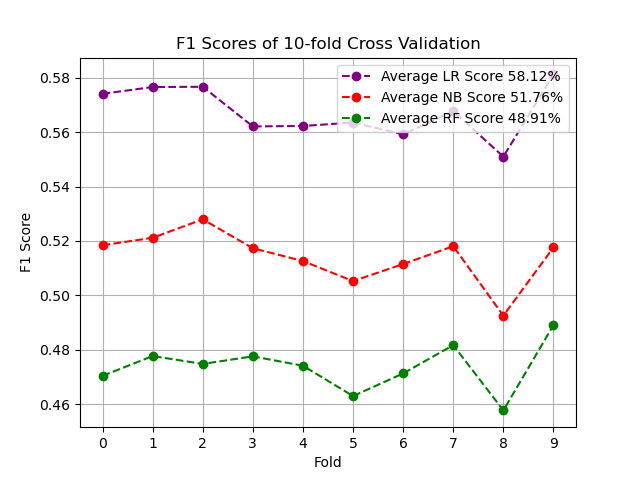
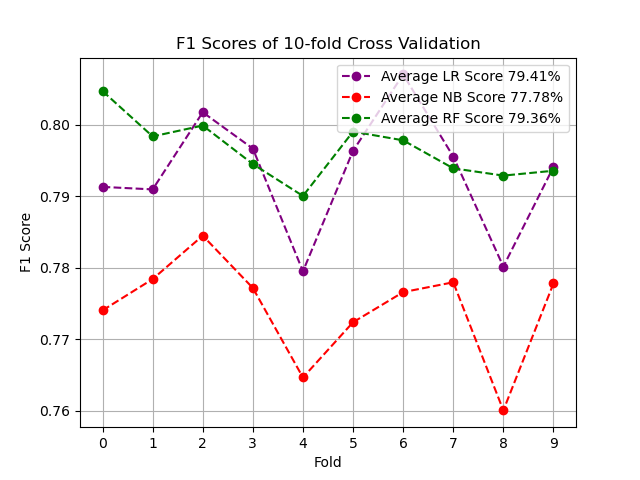
att

diff --git a/funcs.py b/funcs.py
@@ -10,6 +10,9 @@ from sklearn.feature_extraction.text import TfidfVectorizer
 from sklearn.linear_model import LogisticRegression
 from sklearn.naive_bayes import MultinomialNB
 from sklearn.ensemble import RandomForestClassifier
+from rake_nltk import Rake
+# import RAKE
+from sklearn.feature_extraction.text import CountVectorizer
 
 import matplotlib.pyplot as plt
 
@@ -17,7 +20,8 @@ import matplotlib.pyplot as plt
 
 def clean_text(text):
     # Remove pontuação
-    if isinstance(text, str) and not pd.isnull(text): # se o texto é número ou nulo, ignora
+    
+    if isinstance(text, str) and not pd.isnull(text) and not None: # se o texto é número ou nulo, ignora
 
         # print(f'{text}\n\n')
         text = text.translate(str.maketrans("", "", string.punctuation))
@@ -33,6 +37,8 @@ def clean_text(text):
         text = ''
     return text
 
+
+
 ######################################################################################################
 
 def load_data():
@@ -45,13 +51,15 @@ def load_data():
 
 ######################################################################################################
 
-def run(train_data, test_data, Y):
+def run_tfidf(train_data, test_data, Y):
 
     kfolds = 10
     f1scores_clr = []
     f1scores_cmnb = []
     f1scores_crf = []
 
+
+    # Usando TF-IDF
     for i in range(kfolds):
         # X_train, _, y_train, _ = train_test_split(train_data, Y, test_size=0.2, random_state=i)
         X_train, X_test, y_train, y_test = train_test_split(train_data, Y, test_size=0.2, random_state=i)
@@ -84,6 +92,79 @@ def run(train_data, test_data, Y):
         f1scores_crf.append(f1score_crf)
         print(f1score_crf)
 
+    plt.grid(True)
+    plt.plot(range(kfolds), f1scores_clr, marker='o', linestyle='dashed', label=f'Average LR Score {f1score_clr * 100:.2f}%', color='purple')
+    plt.plot(range(kfolds), f1scores_cmnb, marker='o', linestyle='dashed', label=f'Average NB Score {f1score_cmnb * 100:.2f}%', color='red')
+    plt.plot(range(kfolds), f1scores_crf, marker='o', linestyle='dashed', label=f'Average RF Score {f1score_crf * 100:.2f}%', color='green')
+    plt.xlabel('Fold')
+    plt.ylabel('F1 Score')
+    plt.title(f'F1 Scores of {kfolds}-fold Cross Validation with TF-IDF')
+    plt.xticks(range(kfolds))
+    # plt.axhline(y=mean_f1score, color='r', linestyle='-', label=f'Average F1 Score {mean_f1score* 100:.2f} %')
+    plt.legend()
+    # for i, score in enumerate(f1scores_clr):
+    #     plt.annotate(f'{score * 100:.2f}', xy=(i, score), xytext=(-10, 5), textcoords='offset points',ha='center', va='bottom')
+    # for i, j in zip(range(kfolds), f1scores_clr):
+    #     plt.annotate(f'{j * 100:.2f}%', xy=(i,j), xytext =(0.1 * offset, -offset * 0.5),  
+    #         textcoords ='offset points',ha='center', va='bottom')
+    plt.savefig('tf-idf.png')
+
+    plt.show()
+
+######################################################################################################
+
+def rake_tokenizer(text):
+    rake = Rake()
+    rake.extract_keywords_from_text(text)
+    return rake.get_ranked_phrases()
+
+######################################################################################################
+
+
+def run_rake(train_data, test_data, Y):
+
+    kfolds = 10
+
+    f1scores_clr = []
+    f1scores_cmnb = []
+    f1scores_crf = []
+
+    for i in range(kfolds):
+        X_train, X_test, y_train, y_test = train_test_split(train_data, Y, test_size=0.2, random_state=i)
+
+        # Vectorize the text data using RAKE
+        # rake = Rake()
+        vectorizer = CountVectorizer(tokenizer=rake_tokenizer)
+        X_train_rake = vectorizer.fit_transform(X_train)
+        X_test_rake = vectorizer.transform(X_test)
+
+        # Train a logistic regression model on the vectorized data
+      
+      
+        ## Regressão logística
+        clr = LogisticRegression()
+        clr.fit(X_train_rake, y_train)
+        y_pred = clr.predict(X_test_rake)
+        f1score_clr = f1_score(y_test, y_pred, average='macro')
+        f1scores_clr.append(f1score_clr)
+        print(f1score_clr)
+
+        ## Naive Bayes
+        cmnb = MultinomialNB()
+        cmnb.fit(X_train_rake, y_train)
+        y_pred = cmnb.predict(X_test_rake)
+        f1score_cmnb = f1_score(y_test, y_pred, average='macro')
+        f1scores_cmnb.append(f1score_cmnb)
+        print(f1score_cmnb)
+
+        ## Random Forest
+        crf = RandomForestClassifier(n_estimators=100)
+        crf.fit(X_train_rake, y_train)
+        y_pred = crf.predict(X_test_rake)
+        f1score_crf = f1_score(y_test, y_pred, average='macro')
+        f1scores_crf.append(f1score_crf)
+        print(f1score_crf)
+
 
 
     # mean_f1score = sum(f1scores_clr) / kfolds
@@ -96,16 +177,11 @@ def run(train_data, test_data, Y):
     plt.plot(range(kfolds), f1scores_crf, marker='o', linestyle='dashed', label=f'Average RF Score {f1score_crf * 100:.2f}%', color='green')
     plt.xlabel('Fold')
     plt.ylabel('F1 Score')
-    plt.title(f'F1 Scores of {kfolds}-fold Cross Validation')
+    plt.title(f'F1 Scores of {kfolds}-fold Cross Validation with RAKE')
     plt.xticks(range(kfolds))
     # plt.axhline(y=mean_f1score, color='r', linestyle='-', label=f'Average F1 Score {mean_f1score* 100:.2f} %')
     plt.legend()
-    # for i, score in enumerate(f1scores_clr):
-    #     plt.annotate(f'{score * 100:.2f}', xy=(i, score), xytext=(-10, 5), textcoords='offset points',ha='center', va='bottom')
-    # for i, j in zip(range(kfolds), f1scores_clr):
-    #     plt.annotate(f'{j * 100:.2f}%', xy=(i,j), xytext =(0.1 * offset, -offset * 0.5),  
-    #         textcoords ='offset points',ha='center', va='bottom')
-    plt.savefig('fig.png')
+    plt.savefig('rake.png')
 
     plt.show()
-[]
+

diff --git a/main.py b/main.py
@@ -11,14 +11,15 @@
 # from sklearn.model_selection import train_test_split
 # import matplotlib.pyplot as plt
 
-from funcs import  load_data, run
+from funcs import  load_data, run_tfidf, run_rake
 
 
 if __name__ == '__main__':
     
     train_data, test_data, target = load_data()
     
-    run(train_data,test_data,target)
+    run_tfidf(train_data,test_data,target)
+    run_rake(train_data,test_data,target)
 
 
    
